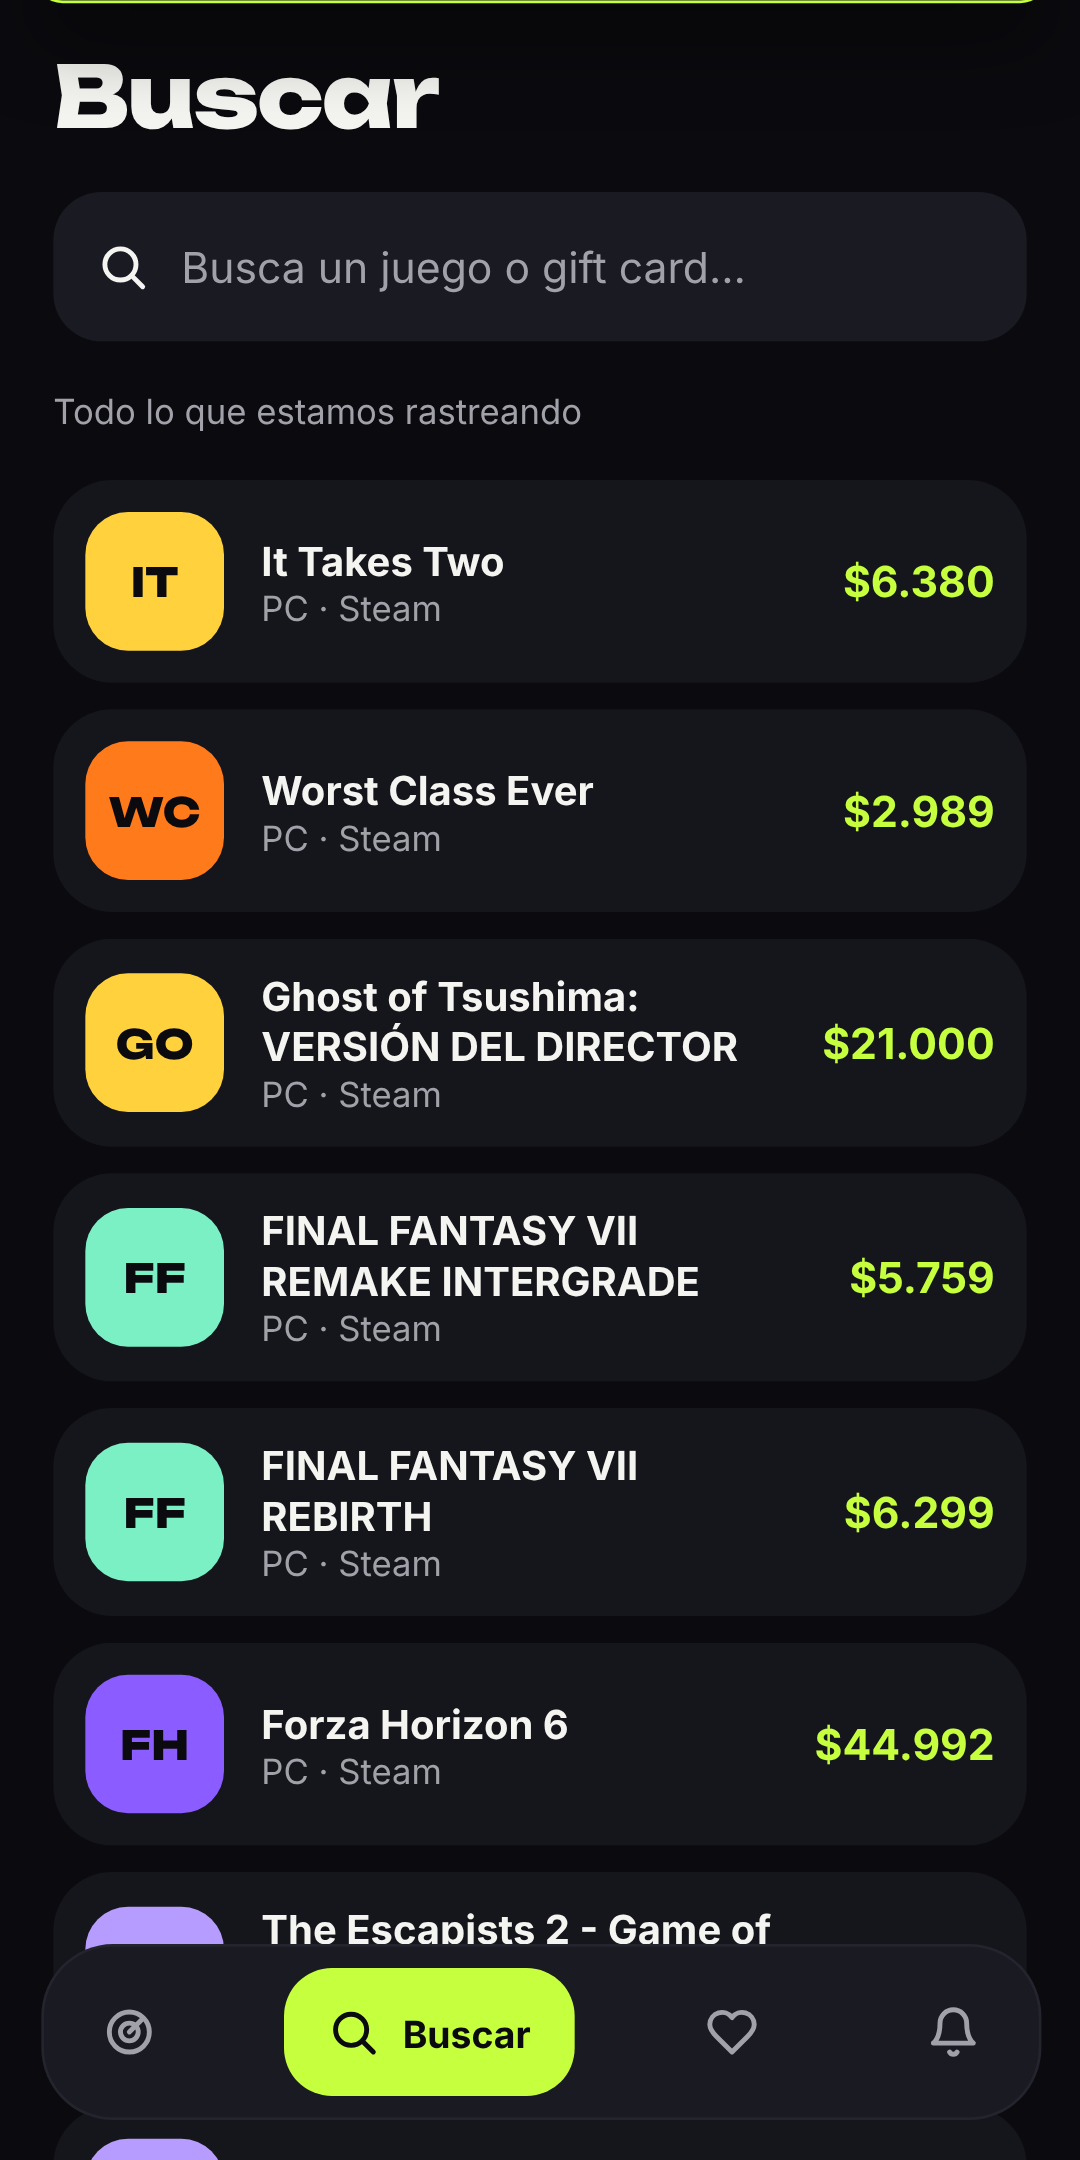
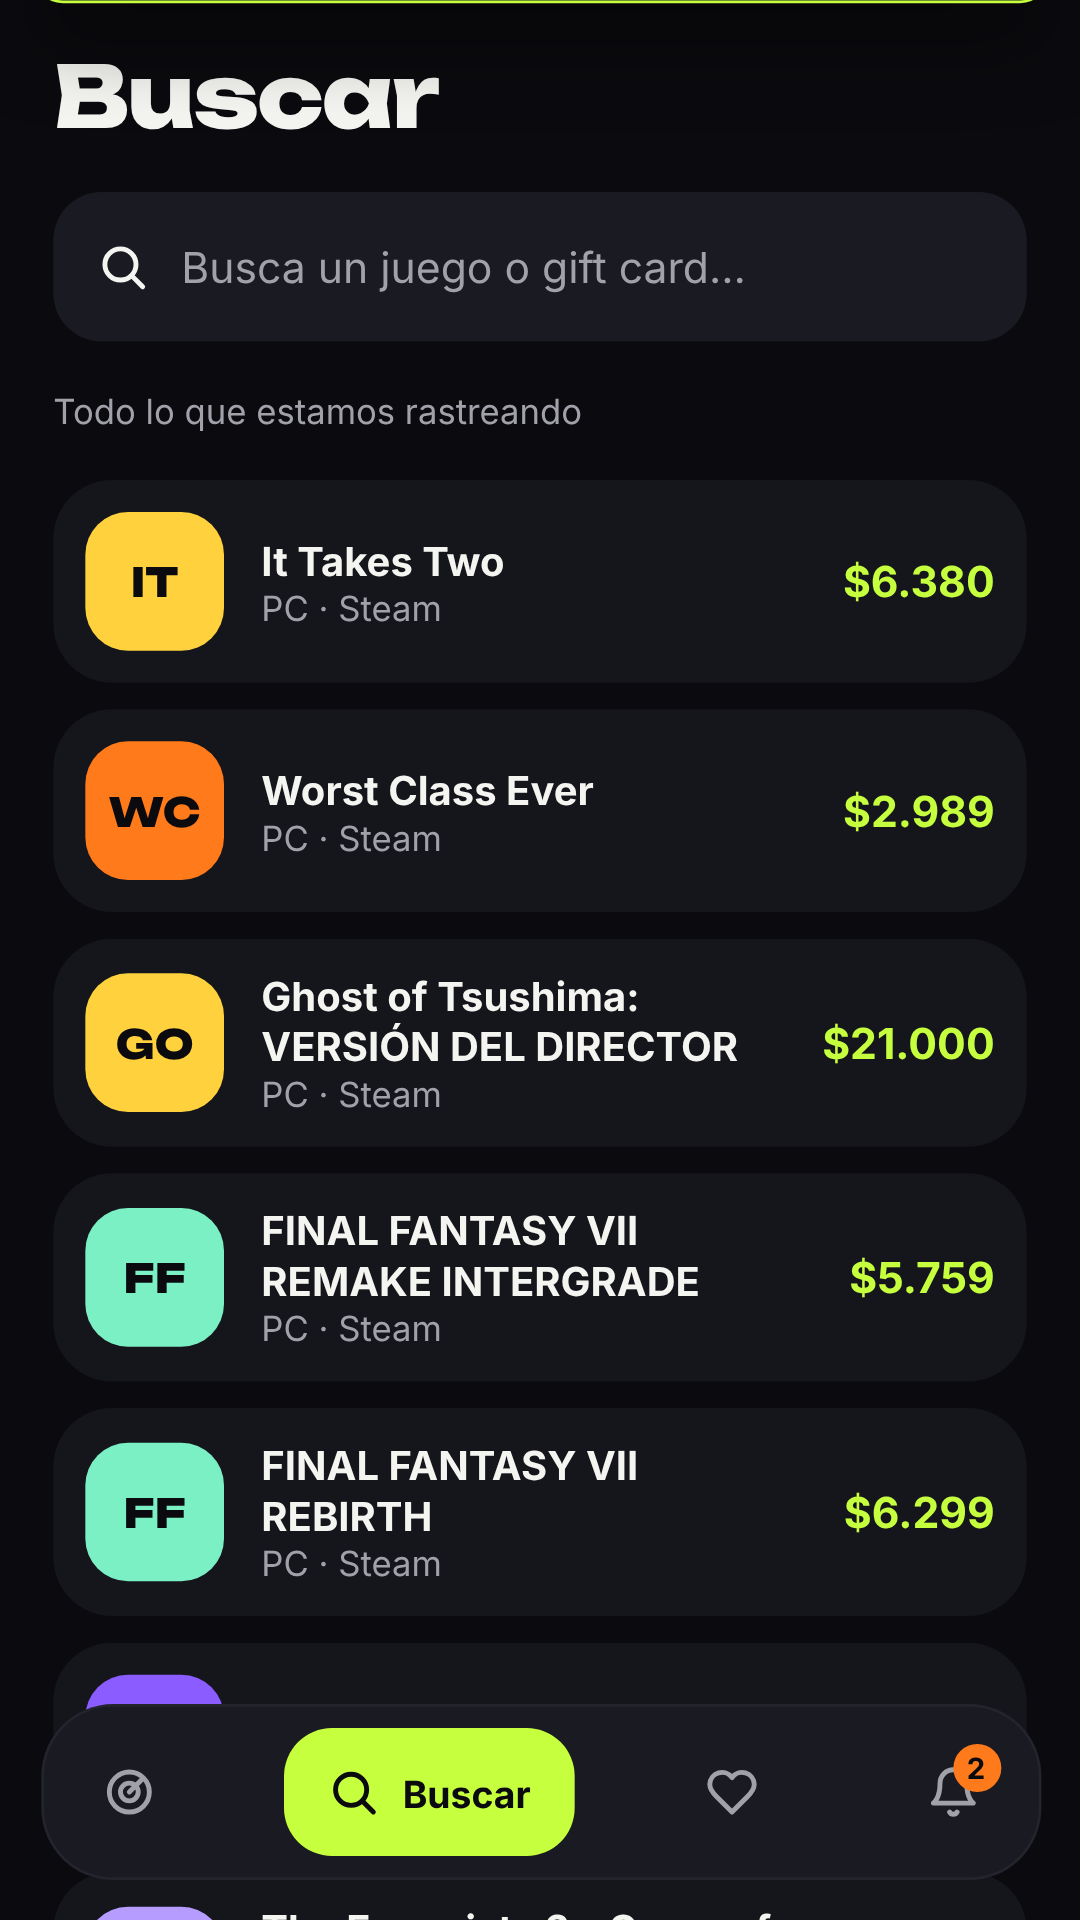
Capturas de la ficha en 9:16 (1080×1920), cuatro pantallas
Claude-Session: https://claude.ai/code/session_01LTy7ufxRrfHHxdvcGeAkT9

diff --git a/store/ficha-google-play.md b/store/ficha-google-play.md
@@ -43,4 +43,4 @@ Ofertas, Videojuegos, Comparador de precios
 ## Archivos gráficos (carpeta store/)
 - Ícono 512×512: icon-512.png
 - Gráfico destacado 1024×500: feature-1024x500.png
-- Capturas de teléfono 1080×2160: screen-1-hoy.png, screen-2-buscar.png, screen-3-detalle.png
+- Capturas de teléfono 1080×1920 (9:16): screen-1-hoy.png, screen-2-buscar.png, screen-3-detalle.png, screen-4-alertas.png
